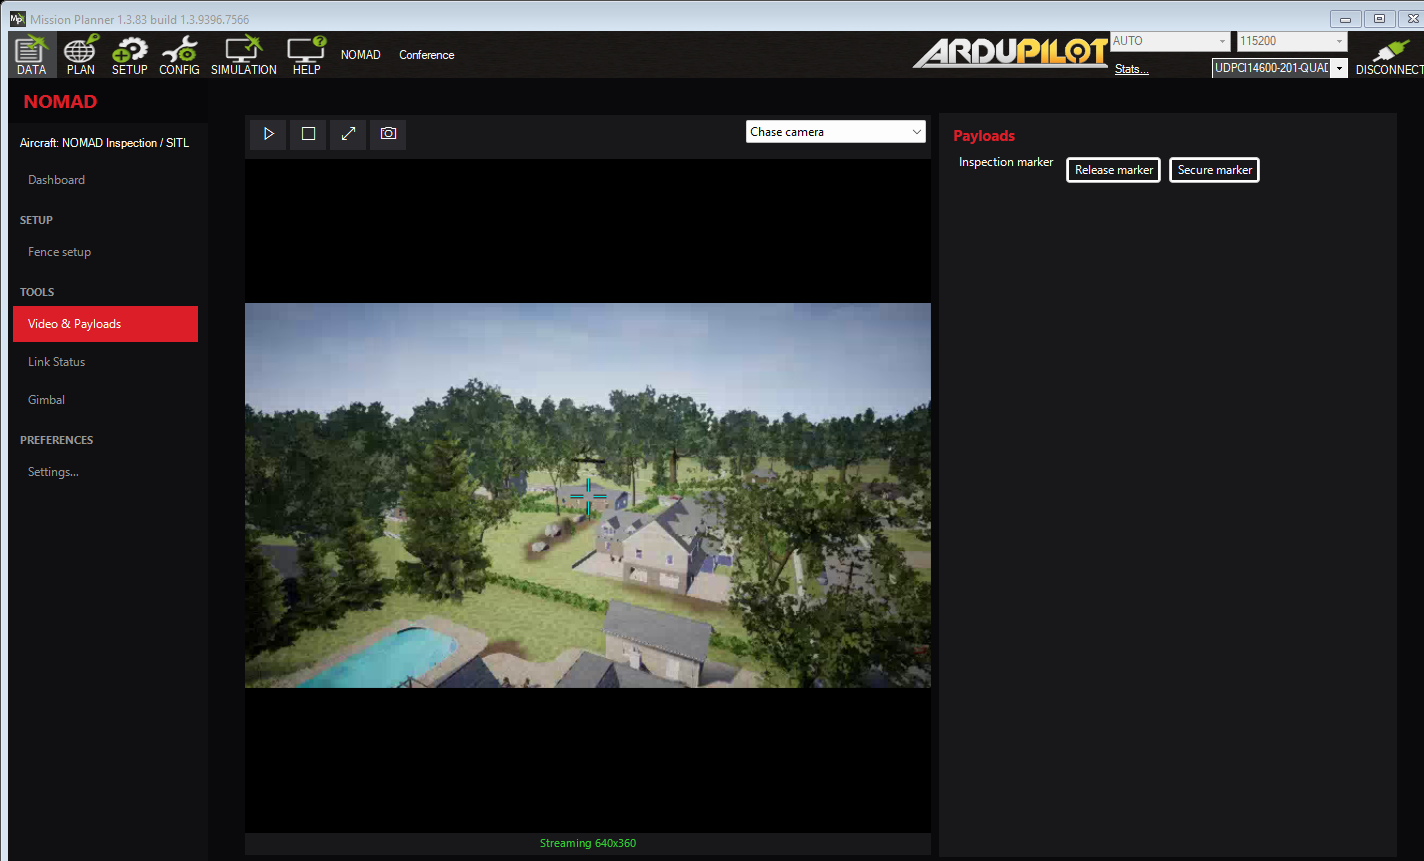
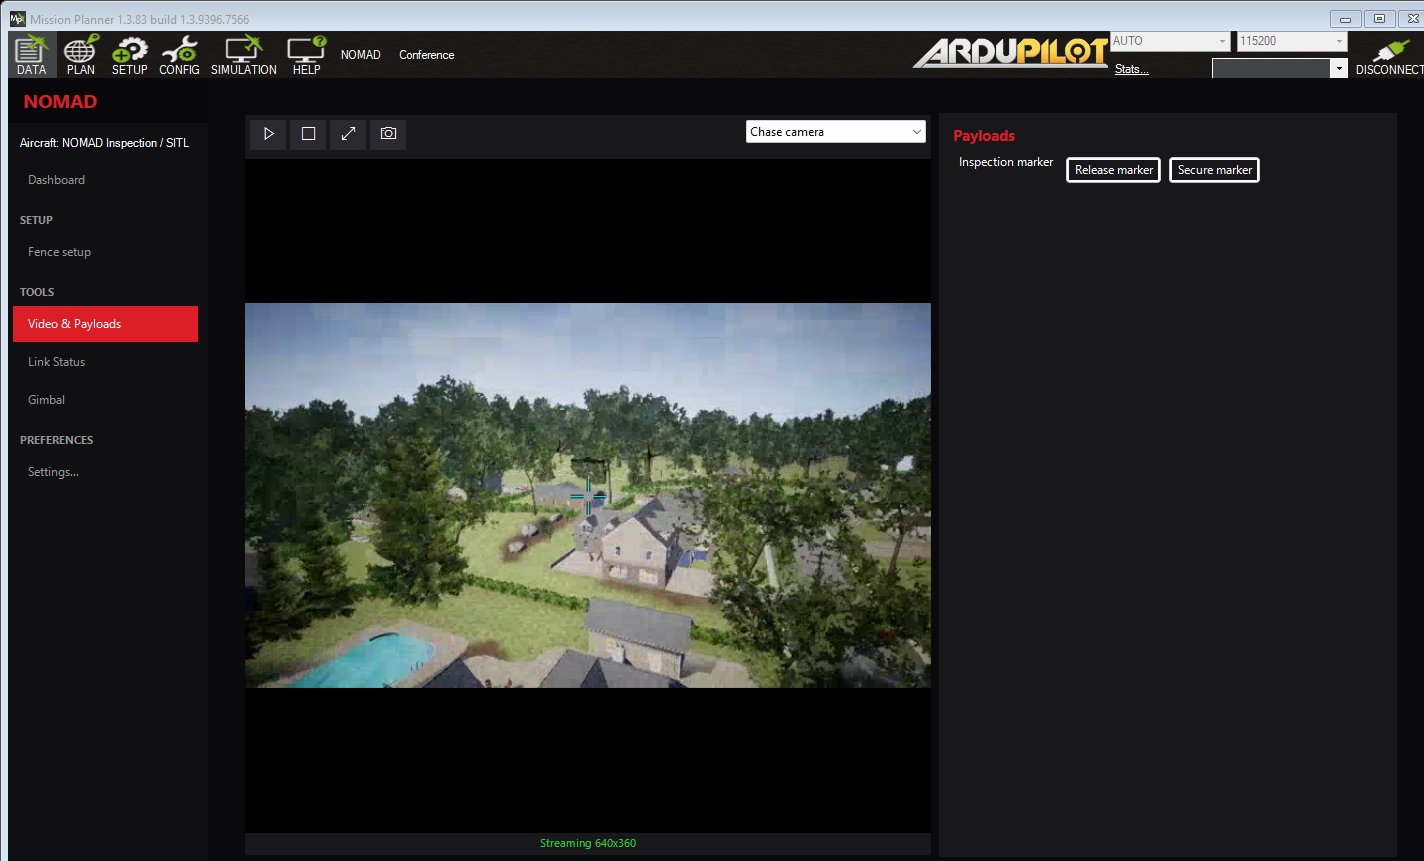
[conference,docs] Show the verified native termination demo

Changed region(s): [[0.1545, 0.4228, 0.6798, 0.8153], [0.8343, 0.0604, 0.927, 0.0906]]

diff --git a/conference/README.md b/conference/README.md
@@ -117,24 +117,33 @@ MAVLink estimator data; they are not separate ground-truth measurements.
 | Native TERMINATE | `AFS_TERM_RATE=2.2` | Fresh mode 29, with both rates within 2.0–2.7 m/s in both bands |
 | Termination latch | Controller reboot required | Explicit rejection ACK for an ordinary mode request, fresh continuing mode 29, and normal rearming refusal after landing |
 
-These are configured targets and acceptance ranges, not measured results. An ACK
-alone proves neither the mode nor descent. The check requires separate fresh
+Validated flights measured **0.49–0.50 m/s** during ordinary LAND and
+**2.15–2.20 m/s** during TERMINATE, including **2.20 m/s** in the final band.
+The altitude/time cross-checks were approximately 0.50 and 2.20 m/s respectively.
+The check also requires separate fresh
 heartbeat, position, landed and disarmed observations. Rejections require a new
 matching DENIED or FAILED ACK; a timeout or unsupported command is not evidence
 of the latch. It also reads back the unchanged ordinary LAND speed parameters.
 
 Native TERMINATE owns contact disarming. After landing, the check attempts normal
 rearming and requires explicit refusal with the native latch reason and continuing
-disarmed TERMINATE state. It ends with reboot required. A preserved-parameter
-controller-restart test is separate; MP reconnection alone does not establish reset.
+disarmed TERMINATE state. It ends with reboot required. A separate ground test
+restarted the identical firmware with the preserved EEPROM and defaults: the
+termination request cleared, commissioning stayed unchanged, and normal arming
+and disarming succeeded with zero parameter writes. That test used the internal
+quad model; it does not claim a Project AirSim restart flight.
 
-After Mission Planner closes, the launcher deliberately stops one owned encoder
-and requires the camera bridge to report failure and stop its sibling encoder.
+![Native TERMINATE observed on the Dashboard](images/termination.png)
+
+After the flight checks, while Mission Planner remains connected, the launcher
+verifies the original controller process and deliberately stops one owned encoder.
+It requires the camera bridge to report failure and stop its sibling encoder.
 That camera failure is expected only at the end of `-Check`. A successful run
-requires both the native rehearsal and this lifecycle check to complete.
+requires both the native rehearsal and this lifecycle check to complete before
+Mission Planner closes. This SITL build exits when its main telemetry client disconnects.
 
 Each invocation creates `build/conference/run-<timestamp>-<id>`. Inspect
-`result.json`, `lifecycle.json` and the command's exit status together. Require the
+`result.json`, `controller-lifecycle.json`, `lifecycle.json` and the command's exit status together. Require the
 actual measured summaries and latch observations, not just a completed build. The final
 `camera-status.json` records the deliberate encoder failure, not a failed flight
 check. Screenshots and diagnostic logs remain in that run directory. These are

diff --git a/docs/development.md b/docs/development.md
@@ -189,9 +189,11 @@ inspection flight retains actual AUTO mission progress, both video inputs, gimba
 outputs, route failover and payload confirmation/Safe checks. The termination
 request uses the actual NOMAD controller; separate fresh mode, landed and disarmed
 observations are required. New matching rejection ACKs and continuing native state
-prove mode-change/rearming refusal. The check does not claim the human Shift
-gesture or confirmation dialog was exercised, or that a subsequent preserved-state
-controller reboot was qualified.
+prove mode-change/rearming refusal. The launcher verifies the original process and
+camera failure cleanup before MP disconnects. A separate internal-quad ground test
+verified retained-EEPROM restart, unchanged commissioning and normal arm/disarm
+without parameter writes. The Project AirSim check does not exercise the human
+Shift gesture or confirmation dialog; the product's isolated widget tests cover those gates.
 
 Pure helper checks can run without Mission Planner or a simulator:
 

diff --git a/docs/native-termination.md b/docs/native-termination.md
@@ -37,9 +37,11 @@ once on entry. Actual descent and airframe tuning still require measurement.
 ## Aircraft setup
 
 NOMAD → Fence Setup → Controlled termination can read/configure the supported
-`AFS_*` settings below when the matching firmware advertises selectable `TERMINATE`
+`AFS_*` settings below when the matching firmware advertises a valid `TERMINATE`
 and freshly exposes the private `AFS_TERM_RATE` parameter. Stock firmware keeps
-ordinary fence setup available and leaves this subgroup unavailable. NOMAD does not
+ordinary fence setup available and leaves this subgroup unavailable. A disabled
+extension can be configured while disarmed; activation still requires a fresh,
+selectable advertisement and valid AFS settings. NOMAD does not
 choose or write an RC channel; remaining commissioning settings use native Mission
 Planner parameters and fence tools. Configure/read back the actual aircraft with
 props removed before separately authorized physical qualification.
